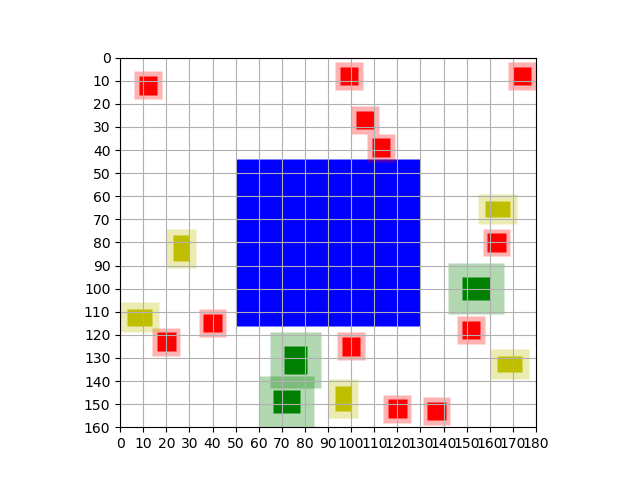
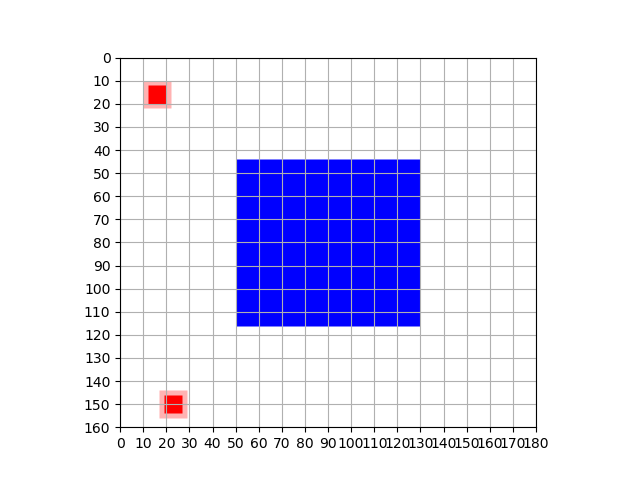
greedy

diff --git a/code/visualization/visualize.py b/code/visualization/visualize.py
@@ -2,6 +2,8 @@ import matplotlib.pyplot as plt
 from matplotlib.collections import PatchCollection
 import numpy as np
 import os
+from IPython import embed;
+
 
 def visualize(grid):
     """
@@ -72,26 +74,29 @@ def draw_houses(houses_coord):
     houses = []
     
     for house in houses_coord:
-        # Load house coordinates without free space
-        bottom_left = house.coordinates['bottom_left']
-        width = house.coordinates['bottom_right'][0] - house.coordinates['bottom_left'][0]
-        height = house.coordinates['top_right'][1] - house.coordinates['bottom_right'][1]
 
-        # Load house coordinates with free space
-        free_space_bottom_left = house.min_free_coordinates['bottom_left']
-        free_space_width = house.min_free_coordinates['bottom_right'][0] - house.min_free_coordinates['bottom_left'][0]
-        free_space_height = house.min_free_coordinates['top_right'][1] - house.min_free_coordinates['bottom_right'][1]
-        
-        # Represent each type of house with a different color
-        if house.type == "single":
-            color = "r"
-        elif house.type == "bungalow":
-            color = "y"
-        else:
-            color = "g"
-        
-        house = plt.Rectangle(bottom_left, width, height, fc=color)
-        free_space = plt.Rectangle(free_space_bottom_left, free_space_width, free_space_height, fc=color, alpha=0.3)
-        houses.extend((house, free_space))
+        if house.placed == True:
+            
+            # Load house coordinates without free space
+            bottom_left = house.coordinates['bottom_left']
+            width = house.coordinates['bottom_right'][0] - house.coordinates['bottom_left'][0]
+            height = house.coordinates['top_right'][1] - house.coordinates['bottom_right'][1]
+
+            # Load house coordinates with free space
+            free_space_bottom_left = house.min_free_coordinates['bottom_left']
+            free_space_width = house.min_free_coordinates['bottom_right'][0] - house.min_free_coordinates['bottom_left'][0]
+            free_space_height = house.min_free_coordinates['top_right'][1] - house.min_free_coordinates['bottom_right'][1]
+            
+            # Represent each type of house with a different color
+            if house.type == "single":
+                color = "r"
+            elif house.type == "bungalow":
+                color = "y"
+            else:
+                color = "g"
+            
+            house = plt.Rectangle(bottom_left, width, height, fc=color)
+            free_space = plt.Rectangle(free_space_bottom_left, free_space_width, free_space_height, fc=color, alpha=0.3)
+            houses.extend((house, free_space))
     
     return houses

diff --git a/code/algorithms/greedy.py b/code/algorithms/greedy.py
@@ -1,0 +1,98 @@
+import copy
+import random
+import code.algorithms.randomize as rz
+
+# Tools
+from IPython import embed; 
+from code.visualization import visualize as vis
+
+class Greedy():
+	"""
+	Greedy class that assigns the best possible location (that results 
+	in highest map value) for a house one by one.
+	"""
+
+	def __init__(self, grid):
+		self.grid = grid
+
+
+	def place_first_house(self):
+		""" 
+		Places first house at random location on grid. 
+		"""
+
+		copy_grid = copy.deepcopy(self.grid)
+
+		# Retrieve first house 
+		first_house = copy_grid.all_houses_list.pop(0)
+
+		# Succesfully place house on grid
+		while first_house.placed == False:
+			try:
+				random_empty_cell = rz.random_empty_cell(copy_grid, first_house)
+				first_house_grid = rz.random_assignment_house(copy_grid, first_house, random_empty_cell)
+				first_house.placed = True
+			except:
+				pass
+
+		print("Placed first house")
+		return first_house_grid
+
+
+	def run(self):
+		# embed()
+
+		# Place first house
+		first_house_grid = self.place_first_house()
+		current_grid = first_house_grid
+
+		# Loop through all houses 
+		for i in range(0, len(first_house_grid.all_houses_list)):
+
+			# Determine empty cells
+			empty_cells = rz.define_empty_cells(current_grid, current_grid.all_houses_list[i])
+
+			# Keep track of all possible states 
+			possibilities = []
+
+			# Try placing next house on one of empty cells
+			for cell in empty_cells:
+
+				# print(f"current cell: {cell}")
+
+				try:
+
+					# Create new grid for new possible state
+					copy_grid = copy.deepcopy(current_grid)
+
+					# Place house on copy grid
+					grid = rz.random_assignment_house(copy_grid, copy_grid.all_houses_list[i], cell)
+					grid.all_houses_list[i].placed = True
+
+					# Calculate worth of grid and add to possible states
+					grid.calculate_worth()
+					possibilities.append(grid)
+
+				except:
+					print("House could not be placed on this cell")	
+
+			# Determine possible state with highest value --> best_grid list
+			highest_value = 0
+			for grid in possibilities:
+				if grid.value > highest_value:
+					highest_value = grid.value
+					best_grid = grid
+
+			current_grid = best_grid
+
+			print(f"Placed {best_grid.all_houses_list[i]}")
+
+		self.grid = current_grid
+
+
+
+
+
+
+
+

diff --git a/main.py b/main.py
@@ -1,23 +1,44 @@
-from code.classes import grid, house
+from code.classes import grid, house # niet nodig? 
 from code.visualization import visualize as vis
-from code.algorithms import randomize 
+from code.algorithms import randomize as rz
+from code.algorithms import greedy as gr
+
 
 if __name__ == "__main__":
 
+	quantity = 20
+	map_source = "data/wijken/wijk_3.csv"
 
-	# Create grid
-    test_grid = grid.Grid(20, "data/wijken/wijk_3.csv")
-    # print(test_grid.load_houses(20))
-    # print(test_grid.load_water())
-    
-    # Randomize algorithm
-    random_config = randomize.random_assignment(test_grid)
+	# Create grid from data
+	test_grid = grid.Grid(quantity, map_source)
 
-    # print("New grid:")
-    # print(random_config.cells)
+	# ----------------------- Randomize algorithm ---------------------------------
+	# random_config = rz.random_assignment(test_grid)
 
-    # Visualize case
-    vis.visualize(random_config)
+	# # print("New grid:")
+	# # print(random_config.cells)
 
-    # Create csv output file
-    random_config.create_output()
+	# # Value of grid
+	# print(f"Value random config: {random_config.value}")
+
+	# # Visualize case
+	# vis.visualize(random_config)
+
+	# # Create csv output file
+	# random_config.create_output()
+
+	# ------------------------ Greedy algorithm -----------------------------------
+	greedy = gr.Greedy(test_grid)
+	greedy.run()
+
+	# Value of grid 
+	print(f"Value greedy config: {greedy.graph.value}")
+
+	# Visualize case
+	vis.visualize(greedy.graph)
+
+	# Create csv output file
+	greedy.graph.create_output()
+
+
+

diff --git a/code/classes/grid.py b/code/classes/grid.py
@@ -2,6 +2,7 @@ import csv
 import numpy as np
 from .cell import Cell
 from .house import House
+import code.algorithms.randomize as rz
 # from IPython import embed;
 
 class Grid():
@@ -11,7 +12,9 @@ class Grid():
         self.map = source_file
         self.quantity = quantity
         self.cells = self.load_grid()
-        self.all_houses = self.load_houses()    
+        self.all_houses = self.load_houses() # misschien alleen list nodig?
+        self.all_houses_list = rz.list_all_houses(self.all_houses)
+        self.value = 0   
         self.create_water()      
 
     def load_grid(self):
@@ -220,8 +223,10 @@ class Grid():
 
                 # Add worth of house to total net worth of the map
                 total_networth += worth_house
-            else:
-                raise ValueError("Not all houses have been placed. Run algorithm to place houses.")
+            # else:
+            #     raise ValueError("Not all houses have been placed. Run algorithm to place houses.")
+
+        self.value = total_networth
 
         return total_networth
 

diff --git a/code/classes/house.py b/code/classes/house.py
@@ -4,8 +4,8 @@ class House():
 		self.id = id
 		self.coordinates = None
 		self.min_free_coordinates = None
-		self.min_free_cells = []
-		self.extra_free_cells = []
+		# self.min_free_cells = []
+		# self.extra_free_cells = []
 		self.extra_free = 0
 		self.placed = False
 
